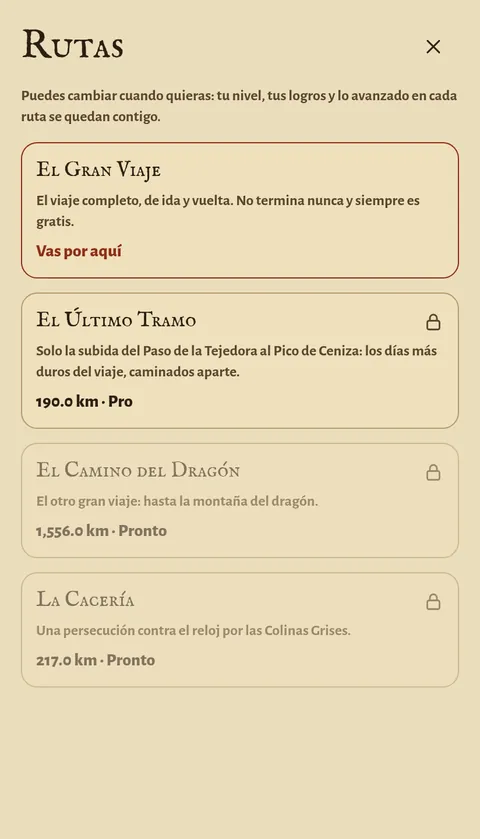
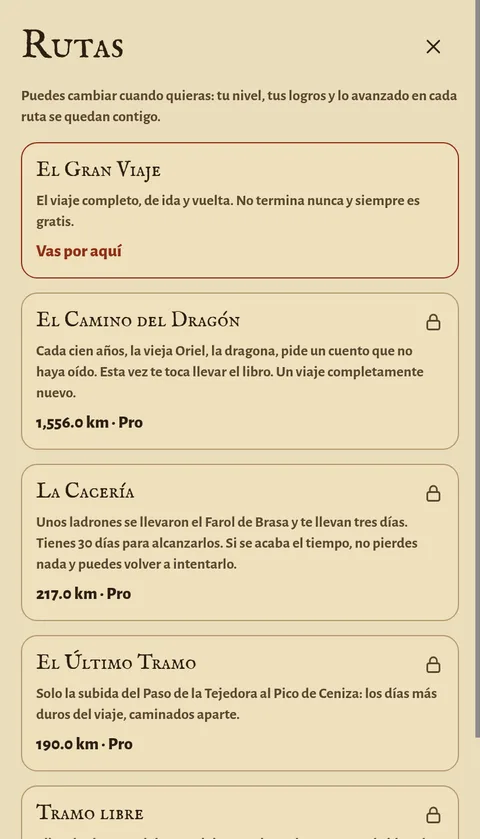
Portada: rutas nuevas, planes, Bestiario y eventos; cifras al día (EN/ES)

diff --git a/es/index.html b/es/index.html
@@ -23,7 +23,7 @@
 <img class="icono" src="/img/icono.png" alt="" width="80" height="80">
 <span class="marca">KINSTRIDE</span>
 <h1>Camina. Descubre en quién te conviertes.</h1>
-<p class="bajada">Tus pasos reales te llevan por un mundo de fantasía dibujado a mano, y tu forma de caminar va formando a tu personaje: linaje, clase y habilidades.</p>
+<p class="bajada">Tus pasos reales te llevan por un mundo de fantasía dibujado a mano, con miles de kilómetros de historias. Tu forma de caminar va formando a tu personaje: linaje, clase y habilidades.</p>
 <p class="botones"><a class="boton" href="https://play.google.com/store/apps/details?id=co.com.monsalve.kinstride">Disponible en Google Play</a> <a class="boton secundario" href="#tester">Ser tester</a></p>
 <p class="aviso">En prueba cerrada: por ahora Google Play solo la muestra a los testers.</p>
 </div>
@@ -40,19 +40,25 @@
 <figure><img src="/img/es-revelacion.webp" alt="La revelación tras tres expediciones" width="480" height="839" loading="lazy"><figcaption>La revelación tras tres expediciones</figcaption></figure>
 <figure><img src="/img/es-parada.webp" alt="Paradas con su historia" width="480" height="839" loading="lazy"><figcaption>Paradas con su historia</figcaption></figure>
 <figure><img src="/img/es-rutas.webp" alt="Elige tu camino" width="480" height="839" loading="lazy"><figcaption>Elige tu camino</figcaption></figure>
+<figure><img src="/img/es-caceria.webp" alt="La Cacería: el reloj corre" width="480" height="839" loading="lazy"><figcaption>La Cacería: el reloj corre</figcaption></figure>
+<figure><img src="/img/es-dragon.webp" alt="El final del Camino del Dragón" width="480" height="839" loading="lazy"><figcaption>El final del Camino del Dragón</figcaption></figure>
+<figure><img src="/img/es-plan.webp" alt="Un plan de 4 semanas hacia un linaje" width="480" height="839" loading="lazy"><figcaption>Un plan de 4 semanas hacia un linaje</figcaption></figure>
+<figure><img src="/img/es-historia.webp" alt="Tu paso mes a mes" width="480" height="839" loading="lazy"><figcaption>Tu paso mes a mes</figcaption></figure>
+<figure><img src="/img/es-bestiario.webp" alt="El Bestiario" width="480" height="839" loading="lazy"><figcaption>El Bestiario</figcaption></figure>
 <figure><img src="/img/es-camino.webp" alt="Cada parada que viene" width="480" height="839" loading="lazy"><figcaption>Cada parada que viene</figcaption></figure>
-<figure><img src="/img/es-logros.webp" alt="25 logros" width="480" height="839" loading="lazy"><figcaption>25 logros</figcaption></figure>
+<figure><img src="/img/es-logros.webp" alt="31 logros" width="480" height="839" loading="lazy"><figcaption>31 logros</figcaption></figure>
 </div>
 <section class="amplia"><h2>Nueve linajes. Tú no eliges.</h2><p class="intro">Kinstride lee cómo caminaste las últimas cuatro semanas: ritmo, largo del paso para tu estatura, subidas, descansos y trote. Luego te dice a quién te pareces. Y también qué cambiar si quieres ser otra cosa.</p><div class="razas"><figure><img src="/img/raza-mediano.webp" alt="Mediano" width="360" height="480" loading="lazy"><figcaption><b>Mediano</b>Pasos cortos y vivos</figcaption></figure><figure><img src="/img/raza-enano.webp" alt="Enano" width="360" height="480" loading="lazy"><figcaption><b>Enano</b>Subidas de verdad</figcaption></figure><figure><img src="/img/raza-humano.webp" alt="Humano" width="360" height="480" loading="lazy"><figcaption><b>Humano</b>Un poco de todo</figcaption></figure><figure><img src="/img/raza-elfo.webp" alt="Elfo" width="360" height="480" loading="lazy"><figcaption><b>Elfo</b>Rápido y parejo</figcaption></figure><figure><img src="/img/raza-orco.webp" alt="Orco" width="360" height="480" loading="lazy"><figcaption><b>Orco</b>A fondo, trotando</figcaption></figure><figure><img src="/img/raza-arboreo.webp" alt="Arbóreo" width="360" height="480" loading="lazy"><figcaption><b>Arbóreo</b>Lento, por horas</figcaption></figure><figure><img src="/img/raza-gnomo.webp" alt="Gnomo" width="360" height="480" loading="lazy"><figcaption><b>Gnomo</b>Pasitos rapidísimos</figcaption></figure><figure><img src="/img/raza-goliat.webp" alt="Goliat" width="360" height="480" loading="lazy"><figcaption><b>Goliat</b>Zancadas gigantes</figcaption></figure><figure><img src="/img/raza-ascuano.webp" alt="Ascuano" width="360" height="480" loading="lazy"><figcaption><b>Ascuano</b>Arranques de fuego</figcaption></figure></div><p class="intro">Doce clases salen de tus costumbres: Explorador, Paladín, Monje, Bárbaro, Pícaro, Druida, Bardo, Guerrero, Mago, Hechicero, Brujo y Clérigo. Son 108 retratos, uno por cada linaje y clase.</p></section>
 <section class="amplia hojas-sec"><h2>Una hoja de personaje que te ganaste</h2><p class="intro">Cada caminante tiene una hoja de verdad: tu nombre, tu nivel, seis habilidades que salen de tus caminatas y los objetos que llevas. Compártela como imagen o llévala a tu mesa: es compatible con quinta edición.</p><ul class="habilidades"><li><b>Fuerza</b> subidas</li><li><b>Destreza</b> cadencia</li><li><b>Constitución</b> resistencia</li><li><b>Inteligencia</b> paradas halladas</li><li><b>Sabiduría</b> constancia</li><li><b>Carisma</b> salidas en grupo</li></ul></section>
 <div class="hojas"><figure><img src="/img/es-hoja-orrin.webp" alt="" width="720" height="1272" loading=lazy></figure><figure><img src="/img/es-hoja-mira.webp" alt="" width="720" height="1272" loading=lazy></figure><figure><img src="/img/es-hoja-bruna.webp" alt="" width="720" height="1272" loading=lazy></figure><figure><img src="/img/es-hoja-kael.webp" alt="" width="720" height="1272" loading=lazy></figure><figure><img src="/img/es-hoja-tamsin.webp" alt="" width="720" height="1272" loading=lazy></figure><figure><img src="/img/es-hoja-nettle.webp" alt="" width="720" height="1272" loading=lazy></figure></div>
 <p class="nota centro">Hojas de ejemplo con personajes inventados.</p>
 </main>
-<section class="banda"><div class="banda-dentro"><h2>Un viaje del tamaño de una leyenda</h2><div class="cifras"><div><b>2.865 km</b><span>El Gran Viaje, y luego el regreso</span></div><div><b>657</b><span>paradas, cada una con su historia</span></div><div><b>103</b><span>objetos mágicos por encontrar</span></div><div><b>25</b><span>logros</span></div></div><p>La bicicleta cuenta como pony o caballo, un narrador puede leer cada parada en voz alta, y un día de descanso a la semana nunca corta tu racha.</p></div></section>
+<section class="banda"><div class="banda-dentro"><h2>Un viaje del tamaño de una leyenda</h2><div class="cifras"><div><b>4.638 km</b><span>de caminos con historias propias</span></div><div><b>1.081</b><span>paradas, cada una con su historia</span></div><div><b>104</b><span>objetos mágicos por encontrar</span></div><div><b>33</b><span>criaturas en el camino</span></div><div><b>31</b><span>logros</span></div></div><p>La bicicleta cuenta como pony o caballo, un narrador puede leer cada parada en voz alta, y un día de descanso a la semana nunca corta tu racha.</p></div></section>
 <main class="ancho">
+<section class="amplia historias"><h2>Más caminos, más historias</h2><p class="intro">El Gran Viaje es gratis y nunca termina. Con Pro se abren además estos caminos.</p><div class="historias-dentro"><img src="/img/escena-dragon.webp" alt="" width="720" height="909" loading="lazy"><div class="rutas-lista"><article><h3>El Camino del Dragón</h3><p class="dato">1.556 km · 362 paradas</p><p>Cada cien años, la vieja Oriel, la dragona, pide un cuento que no haya oído. Esta vez el pueblo te eligió a ti para llevar el libro. Sin tesoro ni robos: solo una caminata larguísima, y lo que traes contigo.</p></article><article><h3>La Cacería</h3><p class="dato">217 km en 30 días</p><p>Unos ladrones se llevaron el Farol de Brasa y te llevan tres días. Llega a tiempo y quédatelo. Si se acaba el plazo no pierdes nada. Para ultramaratonistas está el Modo Leyenda: 4 días.</p></article><article><h3>El Último Tramo</h3><p class="dato">190 km</p><p>Los días más duros del Gran Viaje, caminados aparte.</p></article><article><h3>Tramo libre</h3><p class="dato">110 combinaciones</p><p>Elige dos lugares del Gran Viaje y camina solo esa parte, de ida o de vuelta.</p></article></div></div></section>
+<section class="amplia"><h2>Una caminata que sigue cambiando</h2><ul class="crecer"><li><b>Tu paso mes a mes</b> Mira qué linaje fuiste cada mes, y cómo cambiaron tu paso, tu velocidad y tus subidas. Pro.</li><li><b>Planes de 4 semanas</b> Elige un linaje y recibe una meta para la semana, sacada de las mismas reglas que te miden. Pro.</li><li><b>El Bestiario</b> Goblins, grifos, un cofre muy sospechoso. Aquí no se pelea: te los cruzas, sigues caminando y quedan en tu libro. Gratis.</li><li><b>Eventos del año</b> Tres semanas al año, siempre en las mismas fechas: la Feria de la Cosecha, la Semana de las Hogueras y la Semana de los Camineros. Gratis.</li></ul></section>
 <section class="amplia"><h2>Camina en Compañía</h2><p class="intro">Hasta 9 amigos, un solo marcador. Los pasos de todos empujan al grupo hacia el próximo lugar, y pueden abrir la hoja de personaje de cada uno.</p></section>
-<section class="amplia"><h2>Gratis y completa. Pro si quieres más.</h2><div class="tabla"><table><thead><tr><th></th><th>Gratis</th><th>Pro</th></tr></thead><tbody><tr><th scope="row">Distancia, mapa y paradas</th><td>Sin límite, sin anuncios</td><td>Sin límite, sin anuncios</td></tr><tr><th scope="row">Linajes</th><td>6</td><td>9, con todas las variantes</td></tr><tr><th scope="row">Clases</th><td>8</td><td>12, con magia</td></tr><tr><th scope="row">Hoja de personaje</th><td>Sí</td><td>Con retrato y para compartir</td></tr><tr><th scope="row">Casillas de equipo</th><td>1</td><td>4</td></tr><tr><th scope="row">Rutas</th><td>El Gran Viaje y el regreso</td><td>También rutas aparte</td></tr><tr><th scope="row">Crear una Compañía</th><td>Hasta 3</td><td>Hasta 9</td></tr><tr><th scope="row">Postales</th><td>Con logo pequeño</td><td>Sin logo</td></tr></tbody></table></div><p class="nota">Pro cuesta US$9,99 al año, o US$24,99 una sola vez para siempre. Lo que venga después está incluido.</p></section>
-<section class="amplia"><h2>Lo que viene en el camino</h2><ul class="viene"><li>La Cacería: 217 km contra el reloj</li><li>El Camino del Dragón: el otro gran viaje</li><li>Tu paso mes a mes</li><li>Planes de entrenamiento para llegar a otro linaje</li></ul></section>
+<section class="amplia"><h2>Gratis y completa. Pro si quieres más.</h2><div class="tabla"><table><thead><tr><th></th><th>Gratis</th><th>Pro</th></tr></thead><tbody><tr><th scope="row">Distancia, mapa y paradas</th><td>Sin límite, sin anuncios</td><td>Sin límite, sin anuncios</td></tr><tr><th scope="row">Linajes</th><td>6</td><td>9, con todas las variantes</td></tr><tr><th scope="row">Clases</th><td>8</td><td>12, con magia</td></tr><tr><th scope="row">Hoja de personaje</th><td>Sí</td><td>Con retrato y para compartir</td></tr><tr><th scope="row">Casillas de equipo</th><td>1</td><td>4</td></tr><tr><th scope="row">Rutas</th><td>El Gran Viaje y el regreso</td><td>También el Camino del Dragón, La Cacería, el Último Tramo y el Tramo libre</td></tr><tr><th scope="row">Bestiario y eventos del año</th><td>Sí</td><td>Sí</td></tr><tr><th scope="row">Tu paso mes a mes</th><td>—</td><td>Sí</td></tr><tr><th scope="row">Planes de 4 semanas</th><td>—</td><td>Sí</td></tr><tr><th scope="row">Crear una Compañía</th><td>Hasta 3</td><td>Hasta 9</td></tr><tr><th scope="row">Postales</th><td>Con logo pequeño</td><td>Sin logo</td></tr></tbody></table></div><p class="nota">Pro cuesta US$9,99 al año, o US$24,99 una sola vez para siempre. Lo que venga después está incluido.</p></section>
 <section id="tester" class="resumen tester"><h2>Ser tester</h2><p>Antes de abrir Kinstride para todos, Google pide que algunas personas la prueben durante 14 días. Necesitas un teléfono Android y la cuenta de Gmail que usas en Play Store.</p><ol><li>Únete al grupo de prueba con esa cuenta de Gmail: <a href="https://groups.google.com/g/lince-app-testers">groups.google.com/g/lince-app-testers</a> → <b>Unirse al grupo</b>.</li><li>En tu teléfono Android, abre <a href="https://play.google.com/apps/testing/co.com.monsalve.kinstride">la prueba de Kinstride en Google Play</a> → <b>Convertirse en tester</b>.</li><li>Instala Kinstride desde <a href="https://play.google.com/store/apps/details?id=co.com.monsalve.kinstride">Google Play</a> y <b>déjala instalada 14 días</b>. Camina como siempre; una expedición ayuda mucho.</li><li>Cuéntanos qué te parece, o cualquier cosa que falle: <b>lince.revision@gmail.com</b></li></ol><p class="nota">Si el paso 2 dice que la app no está disponible, espera unos minutos después de unirte al grupo y vuelve a intentarlo.</p></section>
 <p class="pie"><a href="/es/privacidad/">Privacidad</a> · <a href="/es/borrar-datos/">Borrar tus datos</a> · <a href="/">English</a></p>
 <p class="pie legal">This work includes material from the System Reference Document 5.2 (“SRD 5.2”) by Wizards of the Coast LLC, available at <a href="https://www.dndbeyond.com/srd">https://www.dndbeyond.com/srd</a>. The SRD 5.2 is licensed under the Creative Commons Attribution 4.0 International License, available at <a href="https://creativecommons.org/licenses/by/4.0/legalcode">https://creativecommons.org/licenses/by/4.0/legalcode</a>.</p>

diff --git a/index.html b/index.html
@@ -23,7 +23,7 @@
 <img class="icono" src="/img/icono.png" alt="" width="80" height="80">
 <span class="marca">KINSTRIDE</span>
 <h1>Walk. Discover who you become.</h1>
-<p class="bajada">Your real steps carry you across a hand-drawn fantasy world, and the way you walk shapes your character: lineage, class, abilities and all.</p>
+<p class="bajada">Your real steps carry you across a hand-drawn fantasy world, with thousands of kilometres of stories. The way you walk shapes your character: lineage, class, abilities and all.</p>
 <p class="botones"><a class="boton" href="https://play.google.com/store/apps/details?id=co.com.monsalve.kinstride">Get it on Google Play</a> <a class="boton secundario" href="#tester">Become a tester</a></p>
 <p class="aviso">In closed testing: for now Google Play only shows it to testers.</p>
 </div>
@@ -40,19 +40,25 @@
 <figure><img src="/img/en-revelacion.webp" alt="The reveal after three expeditions" width="480" height="839" loading="lazy"><figcaption>The reveal after three expeditions</figcaption></figure>
 <figure><img src="/img/en-parada.webp" alt="Camps with their own story" width="480" height="839" loading="lazy"><figcaption>Camps with their own story</figcaption></figure>
 <figure><img src="/img/en-rutas.webp" alt="Choose your road" width="480" height="839" loading="lazy"><figcaption>Choose your road</figcaption></figure>
+<figure><img src="/img/en-caceria.webp" alt="The Hunt: the clock is running" width="480" height="839" loading="lazy"><figcaption>The Hunt: the clock is running</figcaption></figure>
+<figure><img src="/img/en-dragon.webp" alt="The end of the Dragon Road" width="480" height="839" loading="lazy"><figcaption>The end of the Dragon Road</figcaption></figure>
+<figure><img src="/img/en-plan.webp" alt="A 4-week plan towards a lineage" width="480" height="839" loading="lazy"><figcaption>A 4-week plan towards a lineage</figcaption></figure>
+<figure><img src="/img/en-historia.webp" alt="Your stride month by month" width="480" height="839" loading="lazy"><figcaption>Your stride month by month</figcaption></figure>
+<figure><img src="/img/en-bestiario.webp" alt="The bestiary" width="480" height="839" loading="lazy"><figcaption>The bestiary</figcaption></figure>
 <figure><img src="/img/en-camino.webp" alt="Every camp ahead" width="480" height="839" loading="lazy"><figcaption>Every camp ahead</figcaption></figure>
-<figure><img src="/img/en-logros.webp" alt="25 achievements" width="480" height="839" loading="lazy"><figcaption>25 achievements</figcaption></figure>
+<figure><img src="/img/en-logros.webp" alt="31 achievements" width="480" height="839" loading="lazy"><figcaption>31 achievements</figcaption></figure>
 </div>
 <section class="amplia"><h2>Nine lineages. You don’t pick one.</h2><p class="intro">Kinstride reads the last four weeks of how you walk: pace, stride for your height, climbs, rests, running. Then it tells you who you walk like. And it tells you what to change if you want to become something else.</p><div class="razas"><figure><img src="/img/raza-mediano.webp" alt="Halfling" width="360" height="480" loading="lazy"><figcaption><b>Halfling</b>Short, lively steps</figcaption></figure><figure><img src="/img/raza-enano.webp" alt="Dwarf" width="360" height="480" loading="lazy"><figcaption><b>Dwarf</b>Real climbs</figcaption></figure><figure><img src="/img/raza-humano.webp" alt="Human" width="360" height="480" loading="lazy"><figcaption><b>Human</b>A bit of everything</figcaption></figure><figure><img src="/img/raza-elfo.webp" alt="Elf" width="360" height="480" loading="lazy"><figcaption><b>Elf</b>Quick and even</figcaption></figure><figure><img src="/img/raza-orco.webp" alt="Orc" width="360" height="480" loading="lazy"><figcaption><b>Orc</b>All in, running</figcaption></figure><figure><img src="/img/raza-arboreo.webp" alt="Treefolk" width="360" height="480" loading="lazy"><figcaption><b>Treefolk</b>Slow, for hours</figcaption></figure><figure><img src="/img/raza-gnomo.webp" alt="Gnome" width="360" height="480" loading="lazy"><figcaption><b>Gnome</b>Tiny, rapid steps</figcaption></figure><figure><img src="/img/raza-goliat.webp" alt="Goliath" width="360" height="480" loading="lazy"><figcaption><b>Goliath</b>Giant strides</figcaption></figure><figure><img src="/img/raza-ascuano.webp" alt="Emberkin" width="360" height="480" loading="lazy"><figcaption><b>Emberkin</b>Bursts of fire</figcaption></figure></div><p class="intro">Twelve classes come from your habits: Ranger, Paladin, Monk, Barbarian, Rogue, Druid, Bard, Fighter, Wizard, Sorcerer, Warlock and Cleric. With 108 portraits, one for each lineage and class.</p></section>
 <section class="amplia hojas-sec"><h2>A character sheet you earned</h2><p class="intro">Every walker gets a real sheet: your name, level, six abilities built from your walks, and the items you carry. Share it as an image, or take it to your table: it’s compatible with fifth edition.</p><ul class="habilidades"><li><b>Strength</b> climbs</li><li><b>Dexterity</b> cadence</li><li><b>Constitution</b> endurance</li><li><b>Intelligence</b> camps found</li><li><b>Wisdom</b> consistency</li><li><b>Charisma</b> walks with others</li></ul></section>
 <div class="hojas"><figure><img src="/img/en-hoja-orrin.webp" alt="" width="720" height="1272" loading=lazy></figure><figure><img src="/img/en-hoja-mira.webp" alt="" width="720" height="1272" loading=lazy></figure><figure><img src="/img/en-hoja-bruna.webp" alt="" width="720" height="1272" loading=lazy></figure><figure><img src="/img/en-hoja-kael.webp" alt="" width="720" height="1272" loading=lazy></figure><figure><img src="/img/en-hoja-tamsin.webp" alt="" width="720" height="1272" loading=lazy></figure><figure><img src="/img/en-hoja-nettle.webp" alt="" width="720" height="1272" loading=lazy></figure></div>
 <p class="nota centro">Example sheets with made-up characters.</p>
 </main>
-<section class="banda"><div class="banda-dentro"><h2>A journey the size of a legend</h2><div class="cifras"><div><b>2,865 km</b><span>The Long Road, then the way home</span></div><div><b>657</b><span>camps, each with a story</span></div><div><b>103</b><span>magic items to find</span></div><div><b>25</b><span>achievements</span></div></div><p>Bike rides count as a pony or a horse, a narrator can read each camp aloud, and one rest day a week never breaks your streak.</p></div></section>
+<section class="banda"><div class="banda-dentro"><h2>A journey the size of a legend</h2><div class="cifras"><div><b>4,638 km</b><span>of roads with their own stories</span></div><div><b>1,081</b><span>camps, each with a story</span></div><div><b>104</b><span>magic items to find</span></div><div><b>33</b><span>creatures on the road</span></div><div><b>31</b><span>achievements</span></div></div><p>Bike rides count as a pony or a horse, a narrator can read each camp aloud, and one rest day a week never breaks your streak.</p></div></section>
 <main class="ancho">
+<section class="amplia historias"><h2>More roads, more stories</h2><p class="intro">The Long Road is free and never ends. With Pro, these roads open too.</p><div class="historias-dentro"><img src="/img/escena-dragon.webp" alt="" width="720" height="909" loading="lazy"><div class="rutas-lista"><article><h3>The Dragon Road</h3><p class="dato">1,556 km · 362 camps</p><p>Every hundred years Old Oriel the dragon asks for a story she has not heard. This time the village chose you to carry the book. No treasure, no burglary: just a very long walk, and what you bring back.</p></article><article><h3>The Hunt</h3><p class="dato">217 km in 30 days</p><p>Thieves took the Ember Lantern and they have three days on you. Finish in time to keep it. If you run out of days you lose nothing. For ultramarathoners there is Legend Mode: 4 days.</p></article><article><h3>The Last Stretch</h3><p class="dato">190 km</p><p>The hardest days of the Long Road, walked on their own.</p></article><article><h3>Free Stretch</h3><p class="dato">110 combinations</p><p>Pick two places of the Long Road and walk only that part, there or back.</p></article></div></div></section>
+<section class="amplia"><h2>A walk that keeps changing</h2><ul class="crecer"><li><b>Your stride month by month</b> See which lineage you were each month, and how your stride, speed and climbs changed. Pro.</li><li><b>4-week plans</b> Choose a lineage and get one goal for the week, taken from the same rules that measure you. Pro.</li><li><b>The bestiary</b> Goblins, griffons, a very suspicious chest. Nobody fights here: you meet them, you keep walking, and they go in your book. Free.</li><li><b>Events of the year</b> Three weeks a year, on the same dates: the Harvest Fair, the Week of Fires and Road Menders’ Week. Free.</li></ul></section>
 <section class="amplia"><h2>Walk as a Company</h2><p class="intro">Up to 9 friends, one marker. Everyone’s steps push the group toward the next place, and you can open each other’s character sheets.</p></section>
-<section class="amplia"><h2>Free and complete. Pro if you want more.</h2><div class="tabla"><table><thead><tr><th></th><th>Free</th><th>Pro</th></tr></thead><tbody><tr><th scope="row">Distance, map and camps</th><td>No limit, no ads</td><td>No limit, no ads</td></tr><tr><th scope="row">Lineages</th><td>6</td><td>9, with every variant</td></tr><tr><th scope="row">Classes</th><td>8</td><td>12, with magic</td></tr><tr><th scope="row">Character sheet</th><td>Yes</td><td>With portrait and sharing</td></tr><tr><th scope="row">Equipment slots</th><td>1</td><td>4</td></tr><tr><th scope="row">Routes</th><td>The Long Road and the way home</td><td>Also separate routes</td></tr><tr><th scope="row">Create a Company</th><td>Up to 3</td><td>Up to 9</td></tr><tr><th scope="row">Postcards</th><td>With small logo</td><td>Without logo</td></tr></tbody></table></div><p class="nota">Pro costs US$9.99 a year, or US$24.99 once for life. Whatever comes next is included.</p></section>
-<section class="amplia"><h2>On the road ahead</h2><ul class="viene"><li>The Hunt: 217 km against the clock</li><li>The Dragon Road: the other great journey</li><li>Your stride month by month</li><li>Training plans to become another lineage</li></ul></section>
+<section class="amplia"><h2>Free and complete. Pro if you want more.</h2><div class="tabla"><table><thead><tr><th></th><th>Free</th><th>Pro</th></tr></thead><tbody><tr><th scope="row">Distance, map and camps</th><td>No limit, no ads</td><td>No limit, no ads</td></tr><tr><th scope="row">Lineages</th><td>6</td><td>9, with every variant</td></tr><tr><th scope="row">Classes</th><td>8</td><td>12, with magic</td></tr><tr><th scope="row">Character sheet</th><td>Yes</td><td>With portrait and sharing</td></tr><tr><th scope="row">Equipment slots</th><td>1</td><td>4</td></tr><tr><th scope="row">Routes</th><td>The Long Road and the way home</td><td>Also the Dragon Road, The Hunt, the Last Stretch and Free Stretch</td></tr><tr><th scope="row">Bestiary and events of the year</th><td>Yes</td><td>Yes</td></tr><tr><th scope="row">Your stride month by month</th><td>—</td><td>Yes</td></tr><tr><th scope="row">4-week plans</th><td>—</td><td>Yes</td></tr><tr><th scope="row">Create a Company</th><td>Up to 3</td><td>Up to 9</td></tr><tr><th scope="row">Postcards</th><td>With small logo</td><td>Without logo</td></tr></tbody></table></div><p class="nota">Pro costs US$9.99 a year, or US$24.99 once for life. Whatever comes next is included.</p></section>
 <section id="tester" class="resumen tester"><h2>Become a tester</h2><p>Before Kinstride opens to everyone, Google asks for people to test it for 14 days. You need an Android phone and the Gmail account you use on Play Store.</p><ol><li>Join the test group with that Gmail account: <a href="https://groups.google.com/g/lince-app-testers">groups.google.com/g/lince-app-testers</a> → <b>Join group</b>.</li><li>On your Android phone, open <a href="https://play.google.com/apps/testing/co.com.monsalve.kinstride">the Kinstride test on Google Play</a> → <b>Become a tester</b>.</li><li>Install Kinstride from <a href="https://play.google.com/store/apps/details?id=co.com.monsalve.kinstride">Google Play</a> and <b>keep it installed for 14 days</b>. Walk as usual; one expedition helps a lot.</li><li>Tell us what you think, or anything that fails: <b>lince.revision@gmail.com</b></li></ol><p class="nota">If step 2 says the app is not available, wait a few minutes after joining the group and try again.</p></section>
 <p class="pie"><a href="/privacy/">Privacy</a> · <a href="/delete-data/">Delete your data</a> · <a href="/es/">Español</a></p>
 <p class="pie legal">This work includes material from the System Reference Document 5.2 (“SRD 5.2”) by Wizards of the Coast LLC, available at <a href="https://www.dndbeyond.com/srd">https://www.dndbeyond.com/srd</a>. The SRD 5.2 is licensed under the Creative Commons Attribution 4.0 International License, available at <a href="https://creativecommons.org/licenses/by/4.0/legalcode">https://creativecommons.org/licenses/by/4.0/legalcode</a>.</p>

diff --git a/estilo.css b/estilo.css
@@ -92,3 +92,15 @@ tbody th{font-weight:700}
 .cifras{grid-template-columns:repeat(2,1fr)}
 .viene{grid-template-columns:1fr}
 }
+
+.historias-dentro{display:grid;grid-template-columns:minmax(0,5fr) minmax(0,7fr);gap:26px;align-items:start;margin-top:14px}
+.historias-dentro>img{width:100%;height:auto;display:block;border-radius:6px;box-shadow:0 8px 20px rgba(0,0,0,.28)}
+.rutas-lista{display:grid;gap:18px}
+.rutas-lista h3{margin:0}
+.rutas-lista p{margin:4px 0 0}
+.rutas-lista .dato{color:var(--suave);font-weight:700;font-size:15px}
+.crecer{display:grid;grid-template-columns:repeat(2,1fr);gap:14px 30px;padding:0;margin:14px 0 0;list-style:none;max-width:860px}
+.crecer b{display:block}
+@media (max-width:760px){.historias-dentro,.crecer{grid-template-columns:1fr}}
+.cifras{grid-template-columns:repeat(5,1fr)}
+@media (max-width:760px){.cifras{grid-template-columns:repeat(2,1fr)}}

diff --git a/generar.py b/generar.py
@@ -23,7 +23,7 @@ T = {
         priv='/privacy/', borrar='/delete-data/', priv_t='Privacy', borrar_t='Delete your data',
         desc='Your real walks cross a hand-drawn fantasy map, and the way you walk decides who your character becomes. Free, no ads, for Android.',
         h1='Walk. Discover who you become.',
-        bajada='Your real steps carry you across a hand-drawn fantasy world, and the way you walk shapes your character: lineage, class, abilities and all.',
+        bajada='Your real steps carry you across a hand-drawn fantasy world, with thousands of kilometres of stories. The way you walk shapes your character: lineage, class, abilities and all.',
         play='Get it on Google Play', ser_tester='Become a tester',
         aviso='In closed testing: for now Google Play only shows it to testers.',
         como_t='How it works',
@@ -32,7 +32,7 @@ T = {
               ('You become someone', 'After three expeditions your lineage is revealed. Your habits earn a class. Walk differently and your character changes with you.')],
         pantallas_t='A map, not a dashboard',
         capturas=[('presentacion', 'A short welcome tells you what to expect'), ('mapa', 'The map is your home screen'), ('personaje', 'Your stride, read in a radar'),
-                  ('revelacion', 'The reveal after three expeditions'), ('parada', 'Camps with their own story'), ('rutas', 'Choose your road'), ('camino', 'Every camp ahead'), ('logros', '25 achievements')],
+                  ('revelacion', 'The reveal after three expeditions'), ('parada', 'Camps with their own story'), ('rutas', 'Choose your road'), ('caceria', 'The Hunt: the clock is running'), ('dragon', 'The end of the Dragon Road'), ('plan', 'A 4-week plan towards a lineage'), ('historia', 'Your stride month by month'), ('bestiario', 'The bestiary'), ('camino', 'Every camp ahead'), ('logros', '31 achievements')],
         razas_t='Nine lineages. You don’t pick one.',
         razas_p='Kinstride reads the last four weeks of how you walk: pace, stride for your height, climbs, rests, running. Then it tells you who you walk like. And it tells you what to change if you want to become something else.',
         razas=[('mediano', 'Halfling', 'Short, lively steps'), ('enano', 'Dwarf', 'Real climbs'), ('humano', 'Human', 'A bit of everything'),
@@ -44,18 +44,28 @@ T = {
         habilidades=[('Strength', 'climbs'), ('Dexterity', 'cadence'), ('Constitution', 'endurance'), ('Intelligence', 'camps found'), ('Wisdom', 'consistency'), ('Charisma', 'walks with others')],
         hojas_n='Example sheets with made-up characters.',
         mundo_t='A journey the size of a legend',
-        cifras=[('2,865 km', 'The Long Road, then the way home'), ('657', 'camps, each with a story'), ('103', 'magic items to find'), ('25', 'achievements')],
+        cifras=[('4,638 km', 'of roads with their own stories'), ('1,081', 'camps, each with a story'), ('104', 'magic items to find'), ('33', 'creatures on the road'), ('31', 'achievements')],
         mundo_p='Bike rides count as a pony or a horse, a narrator can read each camp aloud, and one rest day a week never breaks your streak.',
+        rutas_t='More roads, more stories',
+        rutas_p='The Long Road is free and never ends. With Pro, these roads open too.',
+        rutas=[('The Dragon Road', '1,556 km · 362 camps', 'Every hundred years Old Oriel the dragon asks for a story she has not heard. This time the village chose you to carry the book. No treasure, no burglary: just a very long walk, and what you bring back.'),
+               ('The Hunt', '217 km in 30 days', 'Thieves took the Ember Lantern and they have three days on you. Finish in time to keep it. If you run out of days you lose nothing. For ultramarathoners there is Legend Mode: 4 days.'),
+               ('The Last Stretch', '190 km', 'The hardest days of the Long Road, walked on their own.'),
+               ('Free Stretch', '110 combinations', 'Pick two places of the Long Road and walk only that part, there or back.')],
+        crecer_t='A walk that keeps changing',
+        crecer=[('Your stride month by month', 'See which lineage you were each month, and how your stride, speed and climbs changed. Pro.'),
+                ('4-week plans', 'Choose a lineage and get one goal for the week, taken from the same rules that measure you. Pro.'),
+                ('The bestiary', 'Goblins, griffons, a very suspicious chest. Nobody fights here: you meet them, you keep walking, and they go in your book. Free.'),
+                ('Events of the year', 'Three weeks a year, on the same dates: the Harvest Fair, the Week of Fires and Road Menders’ Week. Free.')],
         grupo_t='Walk as a Company',
         grupo_p='Up to 9 friends, one marker. Everyone’s steps push the group toward the next place, and you can open each other’s character sheets.',
         pro_t='Free and complete. Pro if you want more.',
         col=('', 'Free', 'Pro'),
         filas=[('Distance, map and camps', 'No limit, no ads', 'No limit, no ads'), ('Lineages', '6', '9, with every variant'), ('Classes', '8', '12, with magic'),
-               ('Character sheet', 'Yes', 'With portrait and sharing'), ('Equipment slots', '1', '4'), ('Routes', 'The Long Road and the way home', 'Also separate routes'),
+               ('Character sheet', 'Yes', 'With portrait and sharing'), ('Equipment slots', '1', '4'), ('Routes', 'The Long Road and the way home', 'Also the Dragon Road, The Hunt, the Last Stretch and Free Stretch'),
+               ('Bestiary and events of the year', 'Yes', 'Yes'), ('Your stride month by month', '—', 'Yes'), ('4-week plans', '—', 'Yes'),
                ('Create a Company', 'Up to 3', 'Up to 9'), ('Postcards', 'With small logo', 'Without logo')],
         pro_n='Pro costs US$9.99 a year, or US$24.99 once for life. Whatever comes next is included.',
-        viene_t='On the road ahead',
-        viene=['The Hunt: 217 km against the clock', 'The Dragon Road: the other great journey', 'Your stride month by month', 'Training plans to become another lineage'],
         tester_t='Become a tester',
         tester_intro='Before Kinstride opens to everyone, Google asks for people to test it for 14 days. You need an Android phone and the Gmail account you use on Play Store.',
         pasos=[
@@ -71,7 +81,7 @@ T = {
         priv='/es/privacidad/', borrar='/es/borrar-datos/', priv_t='Privacidad', borrar_t='Borrar tus datos',
         desc='Tus caminatas reales cruzan un mapa de fantasía dibujado a mano, y tu forma de caminar decide en quién se convierte tu personaje. Gratis, sin anuncios, para Android.',
         h1='Camina. Descubre en quién te conviertes.',
-        bajada='Tus pasos reales te llevan por un mundo de fantasía dibujado a mano, y tu forma de caminar va formando a tu personaje: linaje, clase y habilidades.',
+        bajada='Tus pasos reales te llevan por un mundo de fantasía dibujado a mano, con miles de kilómetros de historias. Tu forma de caminar va formando a tu personaje: linaje, clase y habilidades.',
         play='Disponible en Google Play', ser_tester='Ser tester',
         aviso='En prueba cerrada: por ahora Google Play solo la muestra a los testers.',
         como_t='Cómo funciona',
@@ -80,7 +90,7 @@ T = {
               ('Te conviertes en alguien', 'Tras tres expediciones se revela tu linaje. Tus costumbres te ganan una clase. Si caminas distinto, tu personaje cambia contigo.')],
         pantallas_t='Un mapa, no un tablero de números',
         capturas=[('presentacion', 'Una bienvenida corta te dice qué esperar'), ('mapa', 'El mapa es tu pantalla principal'), ('personaje', 'Tu paso, leído en un radar'),
-                  ('revelacion', 'La revelación tras tres expediciones'), ('parada', 'Paradas con su historia'), ('rutas', 'Elige tu camino'), ('camino', 'Cada parada que viene'), ('logros', '25 logros')],
+                  ('revelacion', 'La revelación tras tres expediciones'), ('parada', 'Paradas con su historia'), ('rutas', 'Elige tu camino'), ('caceria', 'La Cacería: el reloj corre'), ('dragon', 'El final del Camino del Dragón'), ('plan', 'Un plan de 4 semanas hacia un linaje'), ('historia', 'Tu paso mes a mes'), ('bestiario', 'El Bestiario'), ('camino', 'Cada parada que viene'), ('logros', '31 logros')],
         razas_t='Nueve linajes. Tú no eliges.',
         razas_p='Kinstride lee cómo caminaste las últimas cuatro semanas: ritmo, largo del paso para tu estatura, subidas, descansos y trote. Luego te dice a quién te pareces. Y también qué cambiar si quieres ser otra cosa.',
         razas=[('mediano', 'Mediano', 'Pasos cortos y vivos'), ('enano', 'Enano', 'Subidas de verdad'), ('humano', 'Humano', 'Un poco de todo'),
@@ -92,18 +102,28 @@ T = {
         habilidades=[('Fuerza', 'subidas'), ('Destreza', 'cadencia'), ('Constitución', 'resistencia'), ('Inteligencia', 'paradas halladas'), ('Sabiduría', 'constancia'), ('Carisma', 'salidas en grupo')],
         hojas_n='Hojas de ejemplo con personajes inventados.',
         mundo_t='Un viaje del tamaño de una leyenda',
-        cifras=[('2.865 km', 'El Gran Viaje, y luego el regreso'), ('657', 'paradas, cada una con su historia'), ('103', 'objetos mágicos por encontrar'), ('25', 'logros')],
+        cifras=[('4.638 km', 'de caminos con historias propias'), ('1.081', 'paradas, cada una con su historia'), ('104', 'objetos mágicos por encontrar'), ('33', 'criaturas en el camino'), ('31', 'logros')],
         mundo_p='La bicicleta cuenta como pony o caballo, un narrador puede leer cada parada en voz alta, y un día de descanso a la semana nunca corta tu racha.',
+        rutas_t='Más caminos, más historias',
+        rutas_p='El Gran Viaje es gratis y nunca termina. Con Pro se abren además estos caminos.',
+        rutas=[('El Camino del Dragón', '1.556 km · 362 paradas', 'Cada cien años, la vieja Oriel, la dragona, pide un cuento que no haya oído. Esta vez el pueblo te eligió a ti para llevar el libro. Sin tesoro ni robos: solo una caminata larguísima, y lo que traes contigo.'),
+               ('La Cacería', '217 km en 30 días', 'Unos ladrones se llevaron el Farol de Brasa y te llevan tres días. Llega a tiempo y quédatelo. Si se acaba el plazo no pierdes nada. Para ultramaratonistas está el Modo Leyenda: 4 días.'),
+               ('El Último Tramo', '190 km', 'Los días más duros del Gran Viaje, caminados aparte.'),
+               ('Tramo libre', '110 combinaciones', 'Elige dos lugares del Gran Viaje y camina solo esa parte, de ida o de vuelta.')],
+        crecer_t='Una caminata que sigue cambiando',
+        crecer=[('Tu paso mes a mes', 'Mira qué linaje fuiste cada mes, y cómo cambiaron tu paso, tu velocidad y tus subidas. Pro.'),
+                ('Planes de 4 semanas', 'Elige un linaje y recibe una meta para la semana, sacada de las mismas reglas que te miden. Pro.'),
+                ('El Bestiario', 'Goblins, grifos, un cofre muy sospechoso. Aquí no se pelea: te los cruzas, sigues caminando y quedan en tu libro. Gratis.'),
+                ('Eventos del año', 'Tres semanas al año, siempre en las mismas fechas: la Feria de la Cosecha, la Semana de las Hogueras y la Semana de los Camineros. Gratis.')],
         grupo_t='Camina en Compañía',
         grupo_p='Hasta 9 amigos, un solo marcador. Los pasos de todos empujan al grupo hacia el próximo lugar, y pueden abrir la hoja de personaje de cada uno.',
         pro_t='Gratis y completa. Pro si quieres más.',
         col=('', 'Gratis', 'Pro'),
         filas=[('Distancia, mapa y paradas', 'Sin límite, sin anuncios', 'Sin límite, sin anuncios'), ('Linajes', '6', '9, con todas las variantes'), ('Clases', '8', '12, con magia'),
-               ('Hoja de personaje', 'Sí', 'Con retrato y para compartir'), ('Casillas de equipo', '1', '4'), ('Rutas', 'El Gran Viaje y el regreso', 'También rutas aparte'),
+               ('Hoja de personaje', 'Sí', 'Con retrato y para compartir'), ('Casillas de equipo', '1', '4'), ('Rutas', 'El Gran Viaje y el regreso', 'También el Camino del Dragón, La Cacería, el Último Tramo y el Tramo libre'),
+               ('Bestiario y eventos del año', 'Sí', 'Sí'), ('Tu paso mes a mes', '—', 'Sí'), ('Planes de 4 semanas', '—', 'Sí'),
                ('Crear una Compañía', 'Hasta 3', 'Hasta 9'), ('Postales', 'Con logo pequeño', 'Sin logo')],
         pro_n='Pro cuesta US$9,99 al año, o US$24,99 una sola vez para siempre. Lo que venga después está incluido.',
-        viene_t='Lo que viene en el camino',
-        viene=['La Cacería: 217 km contra el reloj', 'El Camino del Dragón: el otro gran viaje', 'Tu paso mes a mes', 'Planes de entrenamiento para llegar a otro linaje'],
         tester_t='Ser tester',
         tester_intro='Antes de abrir Kinstride para todos, Google pide que algunas personas la prueben durante 14 días. Necesitas un teléfono Android y la cuenta de Gmail que usas en Play Store.',
         pasos=[
@@ -131,7 +151,8 @@ def pagina(t: dict) -> str:
     hojas = ''.join(f'<figure>{img_hoja(n, "loading=lazy")}</figure>' for n in HOJAS)
     cifras = ''.join(f'<div><b>{n}</b><span>{d}</span></div>' for n, d in t['cifras'])
     filas = ''.join(f'<tr><th scope="row">{a}</th><td>{b}</td><td>{c}</td></tr>' for a, b, c in t['filas'])
-    viene = ''.join(f'<li>{x}</li>' for x in t['viene'])
+    rutas = ''.join(f'<article><h3>{n}</h3><p class="dato">{d}</p><p>{p}</p></article>' for n, d, p in t['rutas'])
+    crecer = ''.join(f'<li><b>{n}</b> {p}</li>' for n, p in t['crecer'])
     pasos = ''.join(f'<li>{p}</li>' for p in t['pasos'])
     return f'''<!doctype html>
 <html lang="{l}">
@@ -178,9 +199,10 @@ def pagina(t: dict) -> str:
 </main>
 <section class="banda"><div class="banda-dentro"><h2>{t['mundo_t']}</h2><div class="cifras">{cifras}</div><p>{t['mundo_p']}</p></div></section>
 <main class="ancho">
+<section class="amplia historias"><h2>{t['rutas_t']}</h2><p class="intro">{t['rutas_p']}</p><div class="historias-dentro"><img src="/img/escena-dragon.webp" alt="" width="720" height="909" loading="lazy"><div class="rutas-lista">{rutas}</div></div></section>
+<section class="amplia"><h2>{t['crecer_t']}</h2><ul class="crecer">{crecer}</ul></section>
 <section class="amplia"><h2>{t['grupo_t']}</h2><p class="intro">{t['grupo_p']}</p></section>
 <section class="amplia"><h2>{t['pro_t']}</h2><div class="tabla"><table><thead><tr><th>{t['col'][0]}</th><th>{t['col'][1]}</th><th>{t['col'][2]}</th></tr></thead><tbody>{filas}</tbody></table></div><p class="nota">{t['pro_n']}</p></section>
-<section class="amplia"><h2>{t['viene_t']}</h2><ul class="viene">{viene}</ul></section>
 <section id="tester" class="resumen tester"><h2>{t['tester_t']}</h2><p>{t['tester_intro']}</p><ol>{pasos}</ol><p class="nota">{t['tester_nota']}</p></section>
 <p class="pie"><a href="{t['priv']}">{t['priv_t']}</a> · <a href="{t['borrar']}">{t['borrar_t']}</a> · <a href="{t['otro']}">{t['otro_nombre']}</a></p>
 <p class="pie legal">{SRD}</p>
